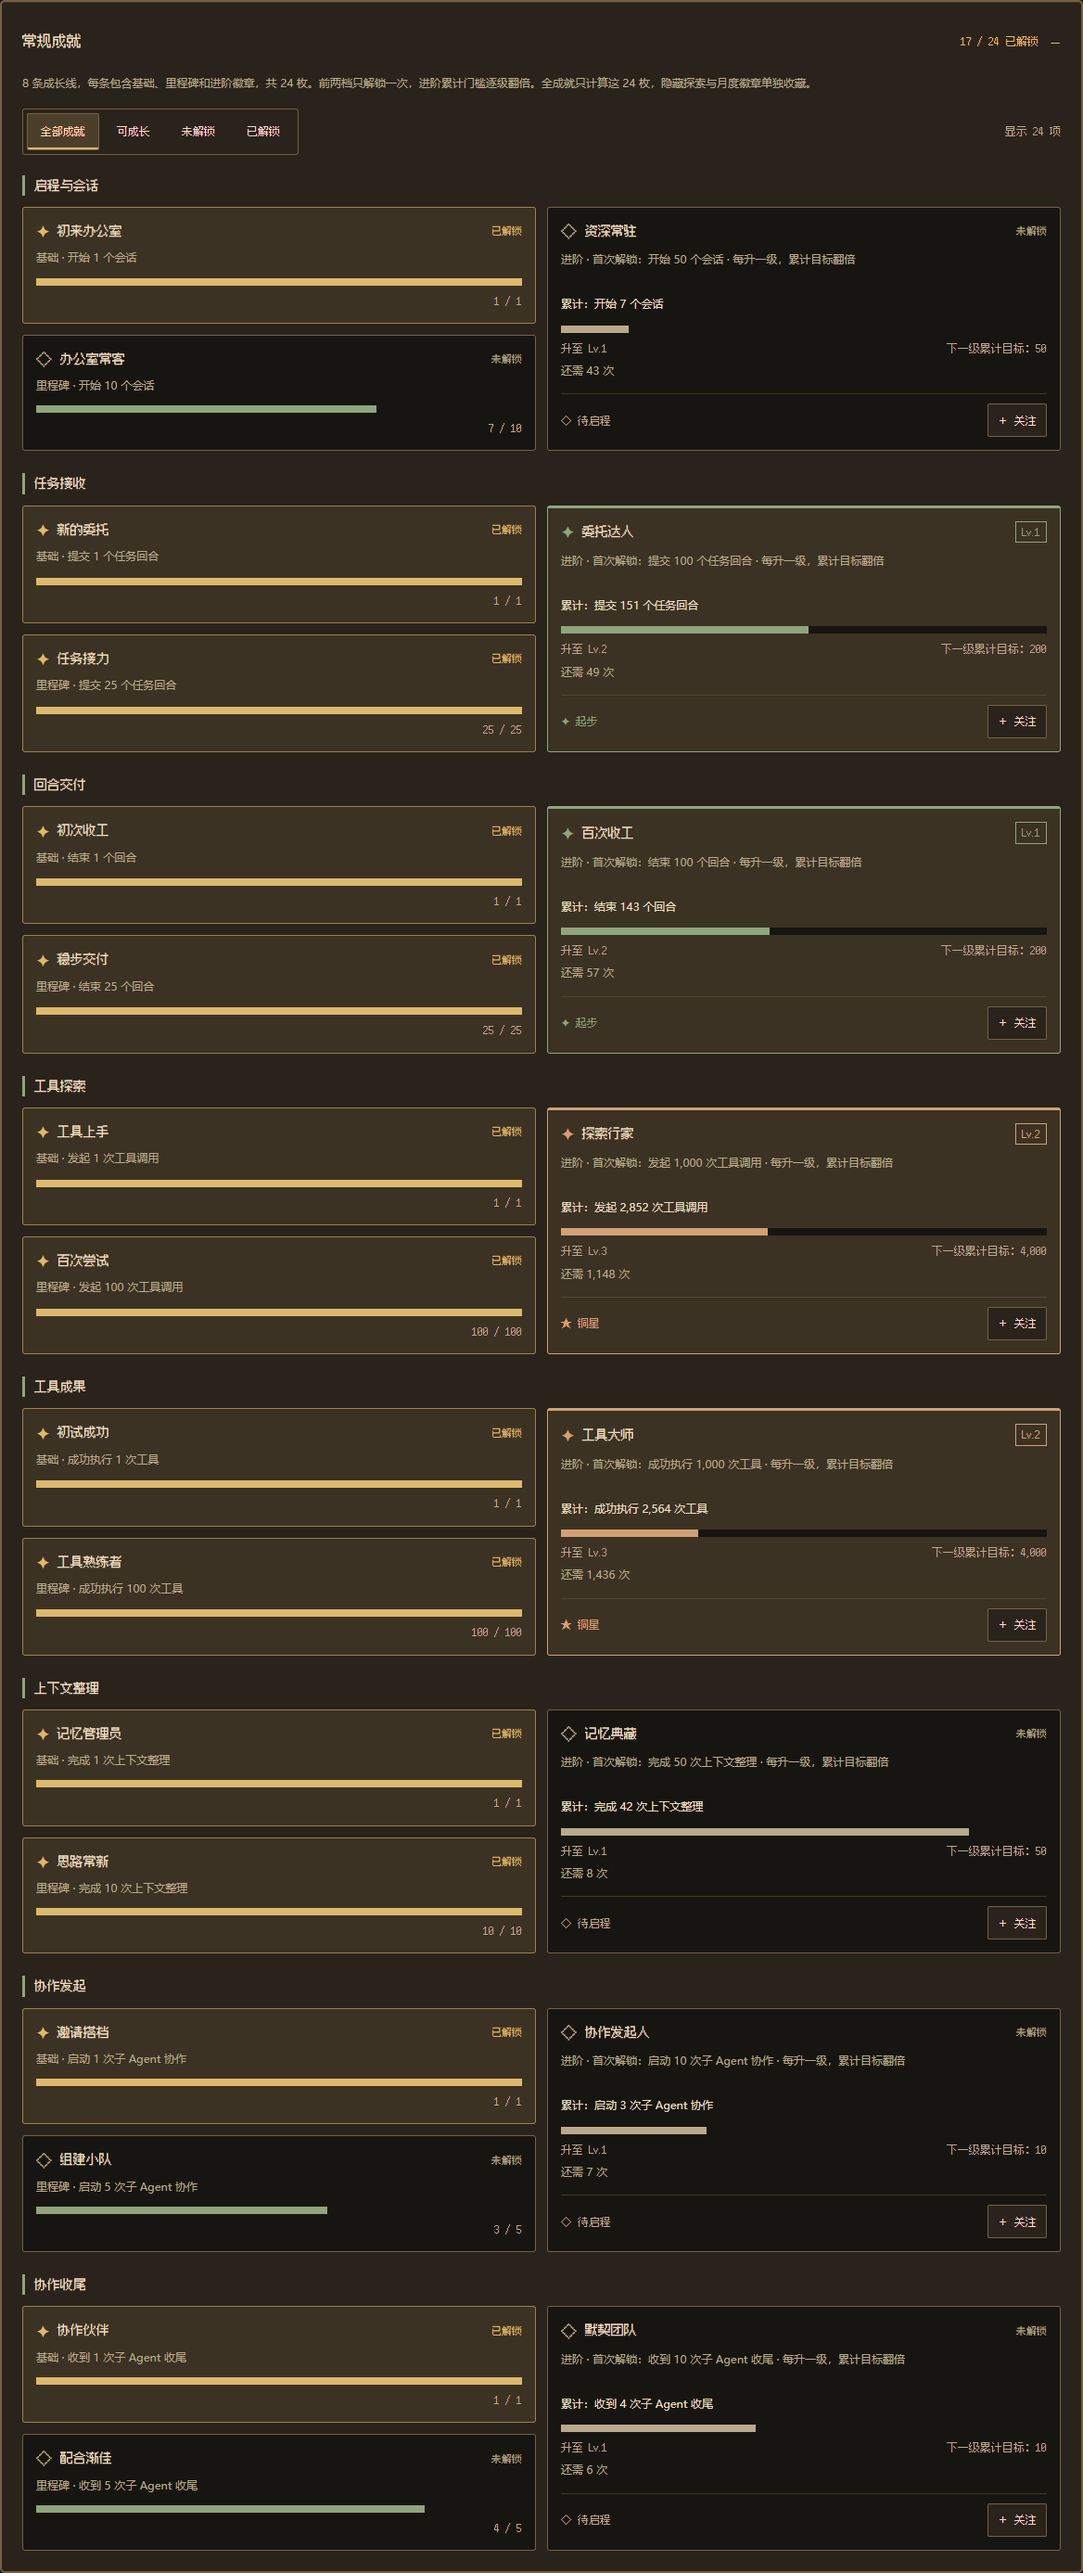
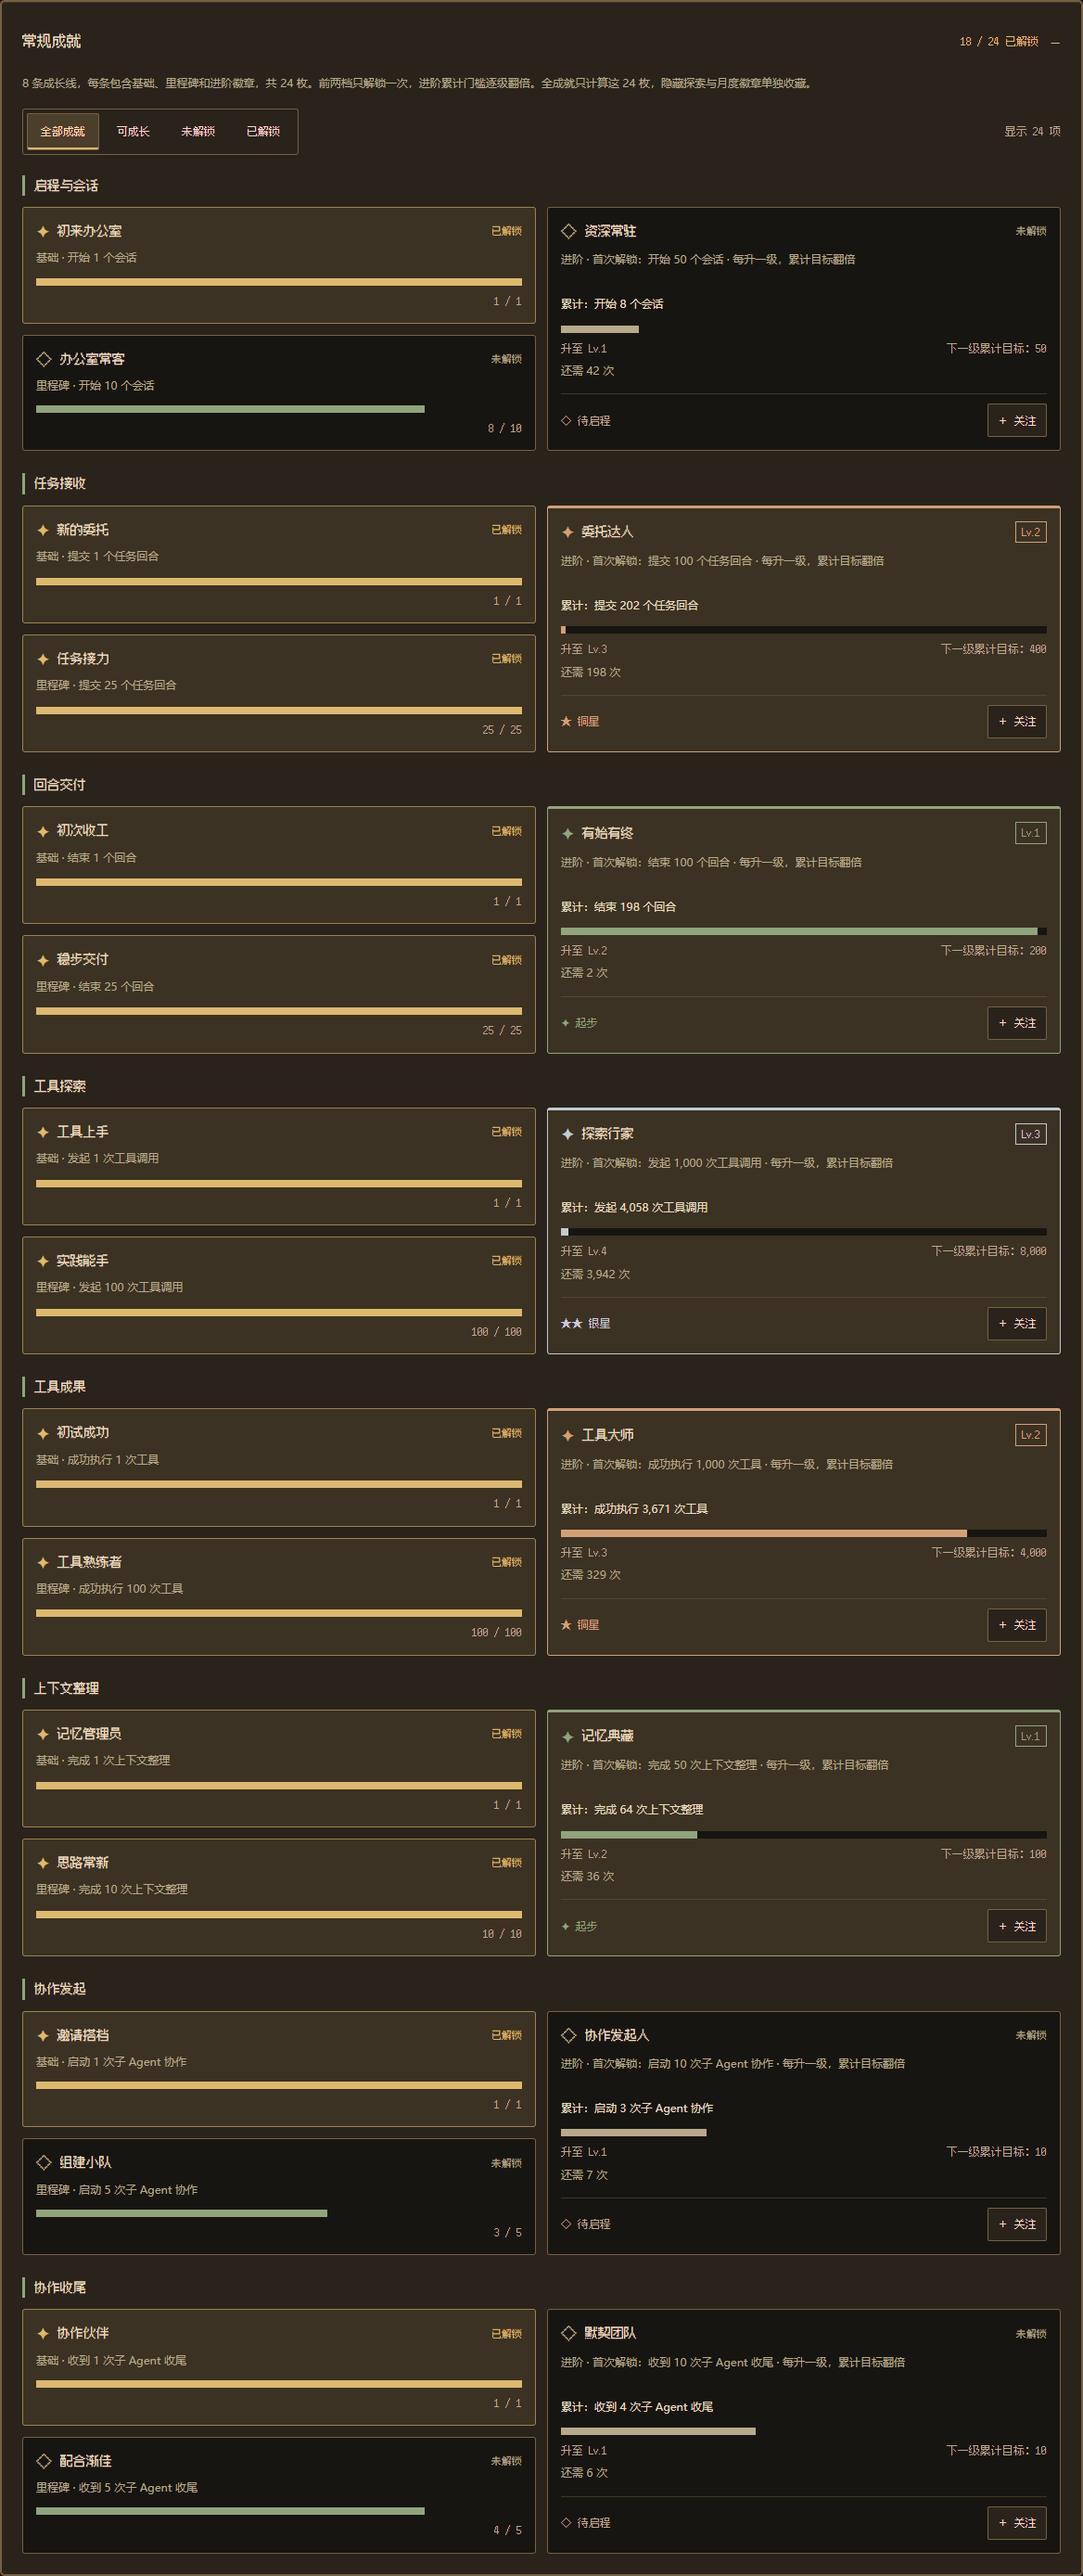
chore: refine achievement names and refresh documentation

diff --git a/frontend/stats.js b/frontend/stats.js
@@ -47,7 +47,7 @@
       prompt_100:"委托达人",
       turn_25:"稳步交付",
       first_tool:"工具上手",
-      tool_started_100:"百次尝试",
+      tool_started_100:"实践能手",
       tool_started_1000:"探索行家",
       tool_100:"工具熟练者",
       compact_10:"思路常新",
@@ -113,7 +113,7 @@
       group_context:"上下文整理",
       first_session:"初来办公室",
       session_50:"资深常驻",
-      turn_100:"百次收工",
+      turn_100:"有始有终",
       first_tool_success:"初试成功",
       tool_1000:"工具大师",
       compact_50:"记忆典藏",
@@ -184,7 +184,7 @@
       prompt_100:"Assignment veteran",
       turn_25:"Steady finishes",
       first_tool:"Tool debut",
-      tool_started_100:"A hundred attempts",
+      tool_started_100:"Skilled practitioner",
       tool_started_1000:"Seasoned explorer",
       tool_100:"Tool regular",
       compact_10:"Fresh context",
@@ -250,7 +250,7 @@
       group_context:"Context care",
       first_session:"First arrival",
       session_50:"Long-time resident",
-      turn_100:"A hundred finishes",
+      turn_100:"See it through",
       first_tool_success:"First success",
       tool_1000:"Tool master",
       compact_50:"Memory archive",
@@ -321,7 +321,7 @@
       prompt_100:"依頼の達人",
       turn_25:"着実な完了",
       first_tool:"ツール入門",
-      tool_started_100:"百回の挑戦",
+      tool_started_100:"実践上手",
       tool_started_1000:"探索の達人",
       tool_100:"ツール名人",
       compact_10:"新鮮な思考",
@@ -387,7 +387,7 @@
       group_context:"コンテキスト整理",
       first_session:"はじめまして",
       session_50:"ベテランの住人",
-      turn_100:"百回の完了",
+      turn_100:"最後までやり抜く",
       first_tool_success:"初めての成功",
       tool_1000:"ツールの達人",
       compact_50:"記憶の書庫",

diff --git a/frontend/stats.html b/frontend/stats.html
@@ -4,7 +4,7 @@
   <meta charset="utf-8"><meta name="viewport" content="width=device-width, initial-scale=1">
   <title>Star Office · Activity</title>
   <link rel="stylesheet" href="/static/stats.css?v={{VERSION_TIMESTAMP}}&amp;office=1&amp;achievements=6">
-  <script src="/static/stats.js?v={{VERSION_TIMESTAMP}}&amp;presence=1&amp;office=1&amp;achievements=6&amp;hooks=2&amp;monthly=1" defer></script>
+  <script src="/static/stats.js?v={{VERSION_TIMESTAMP}}&amp;presence=1&amp;office=1&amp;achievements=8&amp;hooks=2&amp;monthly=1" defer></script>
 </head>
 <body>
   <main class="dashboard">

diff --git a/README.md b/README.md
@@ -294,8 +294,8 @@ python office-agent-push.py
 | --- | --- | --- | --- | --- |
 | 开始会话 | 初来办公室 | 办公室常客：10 次 | 资深常驻 | 50 / 100 / 200 |
 | 提交任务 | 新的委托 | 任务接力：25 次 | 委托达人 | 100 / 200 / 400 |
-| 结束回合 | 初次收工 | 稳步交付：25 次 | 百次收工 | 100 / 200 / 400 |
-| 发起工具 | 工具上手 | 百次尝试：100 次 | 探索行家 | 1,000 / 2,000 / 4,000 |
+| 结束回合 | 初次收工 | 稳步交付：25 次 | 有始有终 | 100 / 200 / 400 |
+| 发起工具 | 工具上手 | 实践能手：100 次 | 探索行家 | 1,000 / 2,000 / 4,000 |
 | 工具成功 | 初试成功 | 工具熟练者：100 次 | 工具大师 | 1,000 / 2,000 / 4,000 |
 | 整理完成 | 记忆管理员 | 思路常新：10 次 | 记忆典藏 | 50 / 100 / 200 |
 | 协作启动 | 邀请搭档 | 组建小队：5 次 | 协作发起人 | 10 / 20 / 40 |
@@ -309,7 +309,7 @@ python office-agent-push.py
 
 成就使用办公室全部历史记录，不受日期筛选影响。工具按工具 ID、回合按回合 ID、会话按会话 ID 去重；上下文整理按独立事件 ID 计数，缺少业务 ID 时使用事件 ID。明确失败的工具结果不计入成功成就。
 
-历史记录自动按新规则换算，XP 不清零。在“可成长”筛选中最多关注 3 枚进阶徽章，未解锁也可关注。选择保存在当前浏览器；旧关注“任务接力 / 百次尝试”分别迁移到同一成长线的“委托达人 / 探索行家”，已经关注的其他进阶徽章保留。
+历史记录自动按新规则换算，XP 不清零。在“可成长”筛选中最多关注 3 枚进阶徽章，未解锁也可关注。选择保存在当前浏览器；旧关注的任务提交、工具发起里程碑分别迁移到同一成长线的“委托达人 / 探索行家”，已经关注的其他进阶徽章保留。
 
 ### 全成就与月度收藏
 
